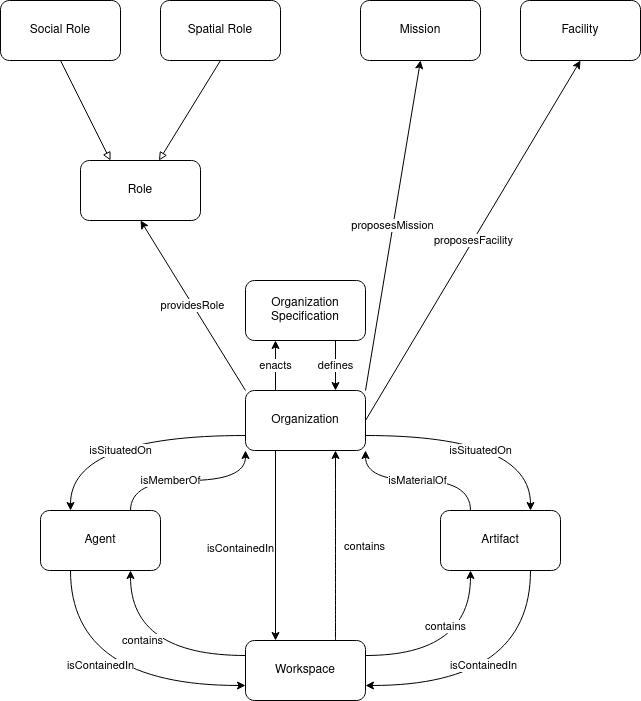
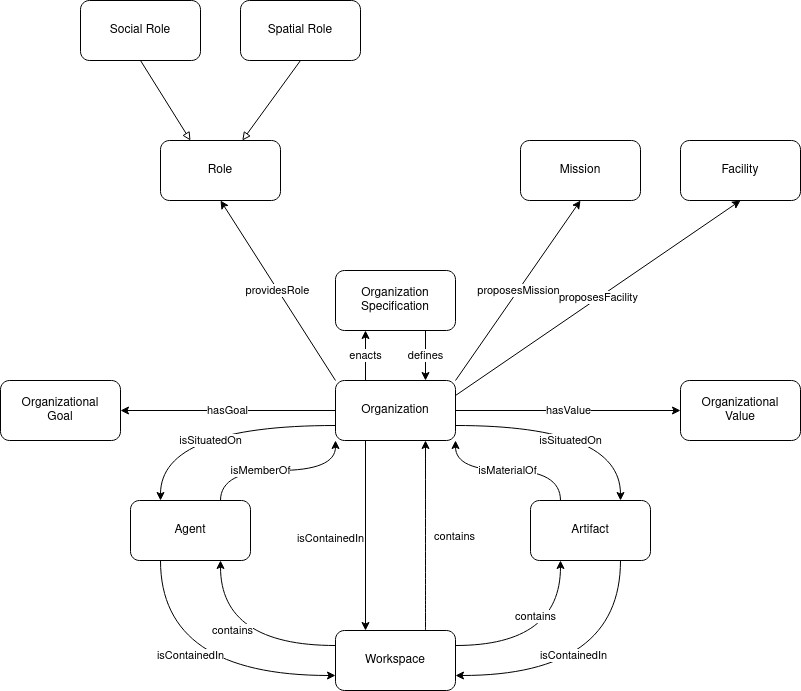
Added Organizational Goal and Value

diff --git a/domains/logistics/create-organization/README.md b/domains/logistics/create-organization/README.md
@@ -3,14 +3,14 @@
 ## Description
 John has experience in working in a successful specialized industrial logistics enterprise in Switzerland, the SL Logistics. He sees a business opportunity in providing the same service in France and creates the FL Logistics. Because of his own experience and the success of the SL Logistics, John decides to use the SL Logistics as a model to organize the FL Logistics.
 
-Mirroring the SL Logistics, the FL Logistics has five departments whose roles and responsibilities are:
-  1. Human Resources (HR) : Define the role of _human resources officer_ who is responsible for hiring, developing and looking after employees.
-  2. Financial : Define the role of _finance officer_ who is responsible for all financial aspects of the organization ensuring payable invoices are processed and payed, and receivable invoices payments are received.
-  3. Commercial : Define the role of _account manager_ who is responsible for building and maintaining a relationship with clients. They prospect and sale the logistic services to industrial enterprises in France.
-  4. Planning : Define the role of _planner_ who is responsible for planning the optimized delivery schedule according to the customers' requirements and constraints.
-  5. Delivery : Define the role of _deliverer_ who is responsible for collecting and delivering the goods in different facilities and storage locations according to the plan elaborated by the _planner_.
-
-The SL Logistics has also several depots distributed in France.
+The FL Logistics follows the same company culture as SL Logistics, which is reflected in their goals and values. Besides, the FL Logistics mirrors the composition of the SL Logistics and provides the following roles and responsibilities:
+  1. _Human resources officer_: Hire, develop and look after employees.
+  2. _Finance officer_: Ensure payable invoices are processed and payed, and receivable invoices payments are received.
+  3. _Account manager_: Build and maintain a relationship with customers. Prospect and sell logistic services to industrial enterprises in France.
+  4. _Planner_: Plan the optimized delivery schedule according to the customers' requirements and constraints.
+  5. _Deliverer_: Collect and deliver goods in different depots and customer facilities according to the plan elaborated by the _Planner_.
+  
+The SL Logistics has also several depots distributed all over France.
 
 ## Competency Questions
 
@@ -23,25 +23,27 @@ The SL Logistics has also several depots distributed in France.
 | q5 | Is there any Organization enacting Organization Specification X in the Workspace Y? |
 | q6 | What are the Organizations that enact the Organization Specification X?             |
 | q7 | What are the Agents and Artifacts that situate the Organization X?                  |
-| q8 | What are the Workspaces where the Organization X is placed at?                      |
-| q9  | What are the available Roles in the Organization X?                                |
-| q10 | Is there Role R in the Organization X?                                             |
-| q11 | What are the available Missions in the Organization X?                             |
-| q12 | What are the available Spatial Roles in the Organization X?                        |
-| q13 | What are the available Facilities in the Organization X?                           |
-| q14 | What are the available Norms in the Organization X?                                |
+| q8 | What are the Workspaces where the Organization X is situated?                       |
+| q9 | What is the Workspace where the Organization X is contained in?                     |
+| q10 | What are the Organizational Goals of the Organization X?                           |
+| q11 | What are the Organizational Values of the Organization X?                          |
+| q12 | What are the available Roles in the Organization X?                                |
+| q13 | What are the available Missions in the Organization X?                             |
+| q14 | What are the available Facilities in the Organization X?                           |
 
 ## Glossary
 
 * **Organization Specification**: An Organization Specification is a declarative specification used to enact one or multiple Organizations.
 * **Organization**: An Organization is an entity situated on Agents and Artifacts, and regulated by a regulation system.
-* **Role**: A Role defines the position that Agents can occupy in an Organization. A Role determines the interactions and relations taking place between the Members and the Materials within an Organization.
+* **Organizational Goal**: An Organizational Goal is an objective that outlines expected results and guide Organization members' efforts.
+* **Organizational Value**: An Organizational Value is a belief about socially or personally desirable end state or action that are explicitly or implicitly shared by members of an organization.
+* **Role**: A Role is used to define the position that Agents can adopt in an Organization.
+* **Social Role**: A Social Role is used to define the position that Agents can adopt in an Organization in relation to a Group.
+* **Spatial Role**: A Spatial Role is used to define the position that Agents can adopt in an Organization in relation to a Space.
 * **Member**: A Member refers to an Agent that plays a Role in an Organization.
-* **Material**: A Material refers to an Artifact that belongs to an Organization.
-* **Mission**: A Mission gathers goals that have to be achieved under the responsibility of an Agent.
-* **Spatial Role**: A Spatial Role defines the position that Agents can occupy in an Organization due to their spatial location.
-* **Facility**: A Facility defines the roles played by Materials in an Organization.
-* **Norm**: A Norm represents the standard of behavior that is expected from Members of an Organization.
+* **Material**: A Material refers to an Artifact that is part of an Organization.
+* **Mission**: A Mission gathers Organizational Goals that can be achieved by Agents in an Organization in relation to a Social Schema.
+* **Facility**: A Facility is used to define functions that are offered by Materials in an Organization in relation to a Space.
 
 ## Recommendations
 
